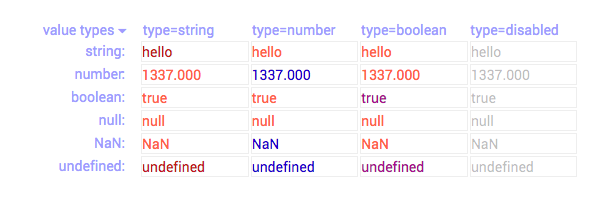
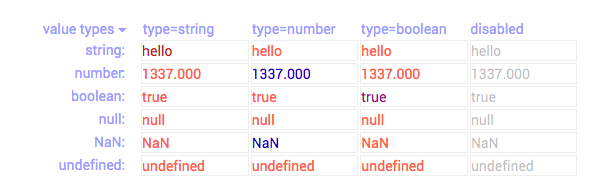
Removed mousedown/touchstart listeners.

diff --git a/io-value.html b/io-value.html
@@ -31,6 +31,7 @@ Example:
     :host([type="boolean"]) {
       cursor: pointer;
       color: var(--io-color-boolean);
+      user-select: none;
     }
     :host(.edit) {
       position: relative;
@@ -119,8 +120,6 @@ Example:
       //   this.removeEventListener('blur', this._blurListener);
       //   this.removeEventListener('click', this._toggleListener);
       //   this.removeEventListener('keydown', this._toggleListener);
-      //   this.removeEventListener('mousedown', this._downListener);
-      //   this.removeEventListener('touchstart', this._downListener);
       //   // this.super();
       // },
       /* Used to set value from the input (editor). */
@@ -174,9 +173,6 @@ Example:
           this._setValue(!this.value);
         }
       },
-      _downHandler: function(event) {
-        event.preventDefault();
-      },
       _addEditor: function() {
         editor.type = this.type || 'string';
         editor.value = String(this.value);
@@ -206,14 +202,9 @@ Example:
       _typeChanged: function() {
         if (this.type === 'boolean') {
           this._toggleListener = this._toggleHandler.bind(this);
-          this._downListener = this._downHandler.bind(this);
           this.addEventListener('click', this._toggleListener);
-          this.addEventListener('mousedown', this._downListener);
-          this.addEventListener('touchstart', this._downListener);
         } else {
           this.removeEventListener('click', this._toggleListener);
-          this.removeEventListener('mousedown', this._downListener);
-          this.removeEventListener('touchstart', this._downListener);
         }
       },
       _disabledChanged: function() {

diff --git a/demo/index.html b/demo/index.html
@@ -43,9 +43,6 @@
       <h3>io-value matrix with various data types and type attributes.</h3>
       <demo-snippet>
         <template>
-          <io-value type="string" value="hello"></io-value>
-          <io-value type="number" value="1337"></io-value>
-          <io-value type="boolean" value="true"></io-value>
           <div class="row header">
             <span class="alignright">value types ▾</span>
             <span>type=string</span>
